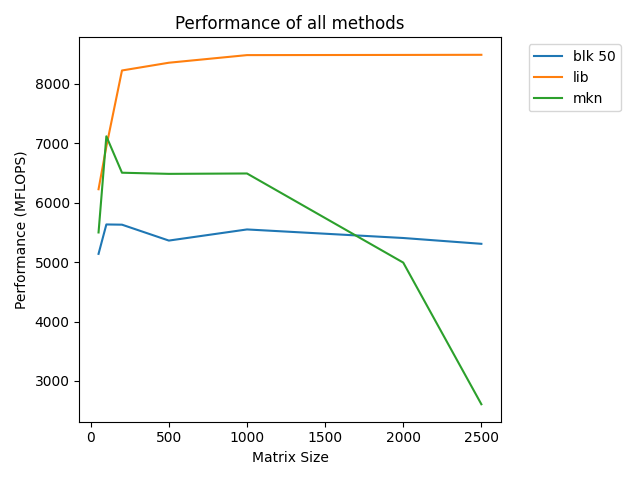
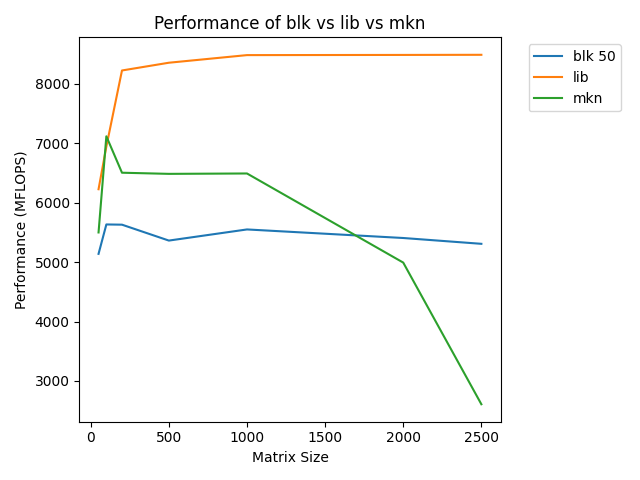
all

Changed region(s): [[0.2188, 0.0312, 0.6562, 0.0625]]

diff --git a/assignment1/plots.py b/assignment1/plots.py
@@ -222,7 +222,7 @@ for method in np.unique(methods):
 plt.xlabel('Matrix Size')
 plt.ylabel('Performance (MFLOPS)')
 plt.legend(bbox_to_anchor=(1.05, 1), loc=2)
-plt.title('Performance of all methods')
+plt.title('Performance of blk vs lib vs mkn')
 plt.tight_layout()
 plt.savefig('assignment1/performance_blk.png')
 
